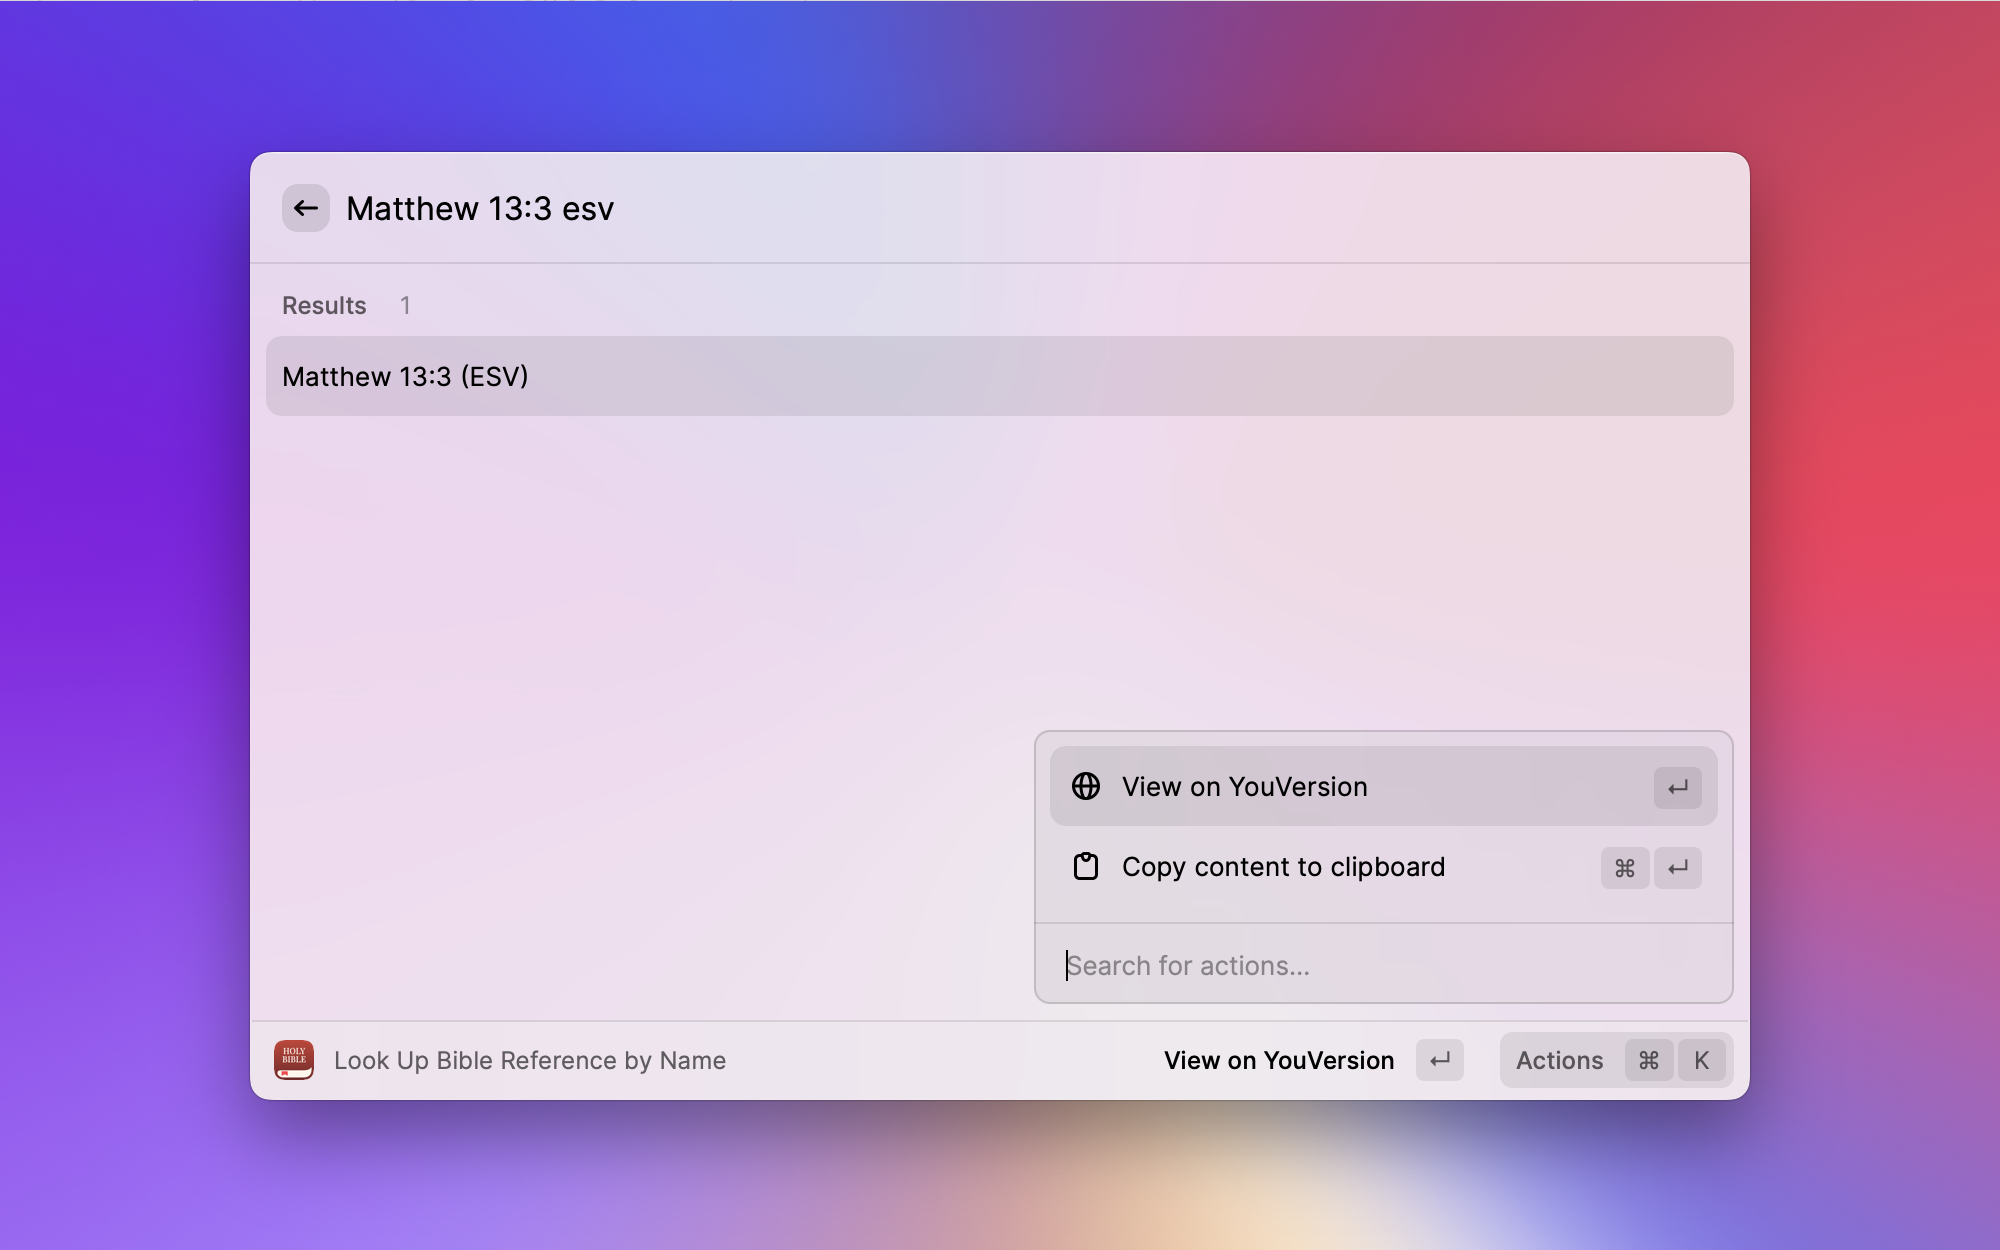
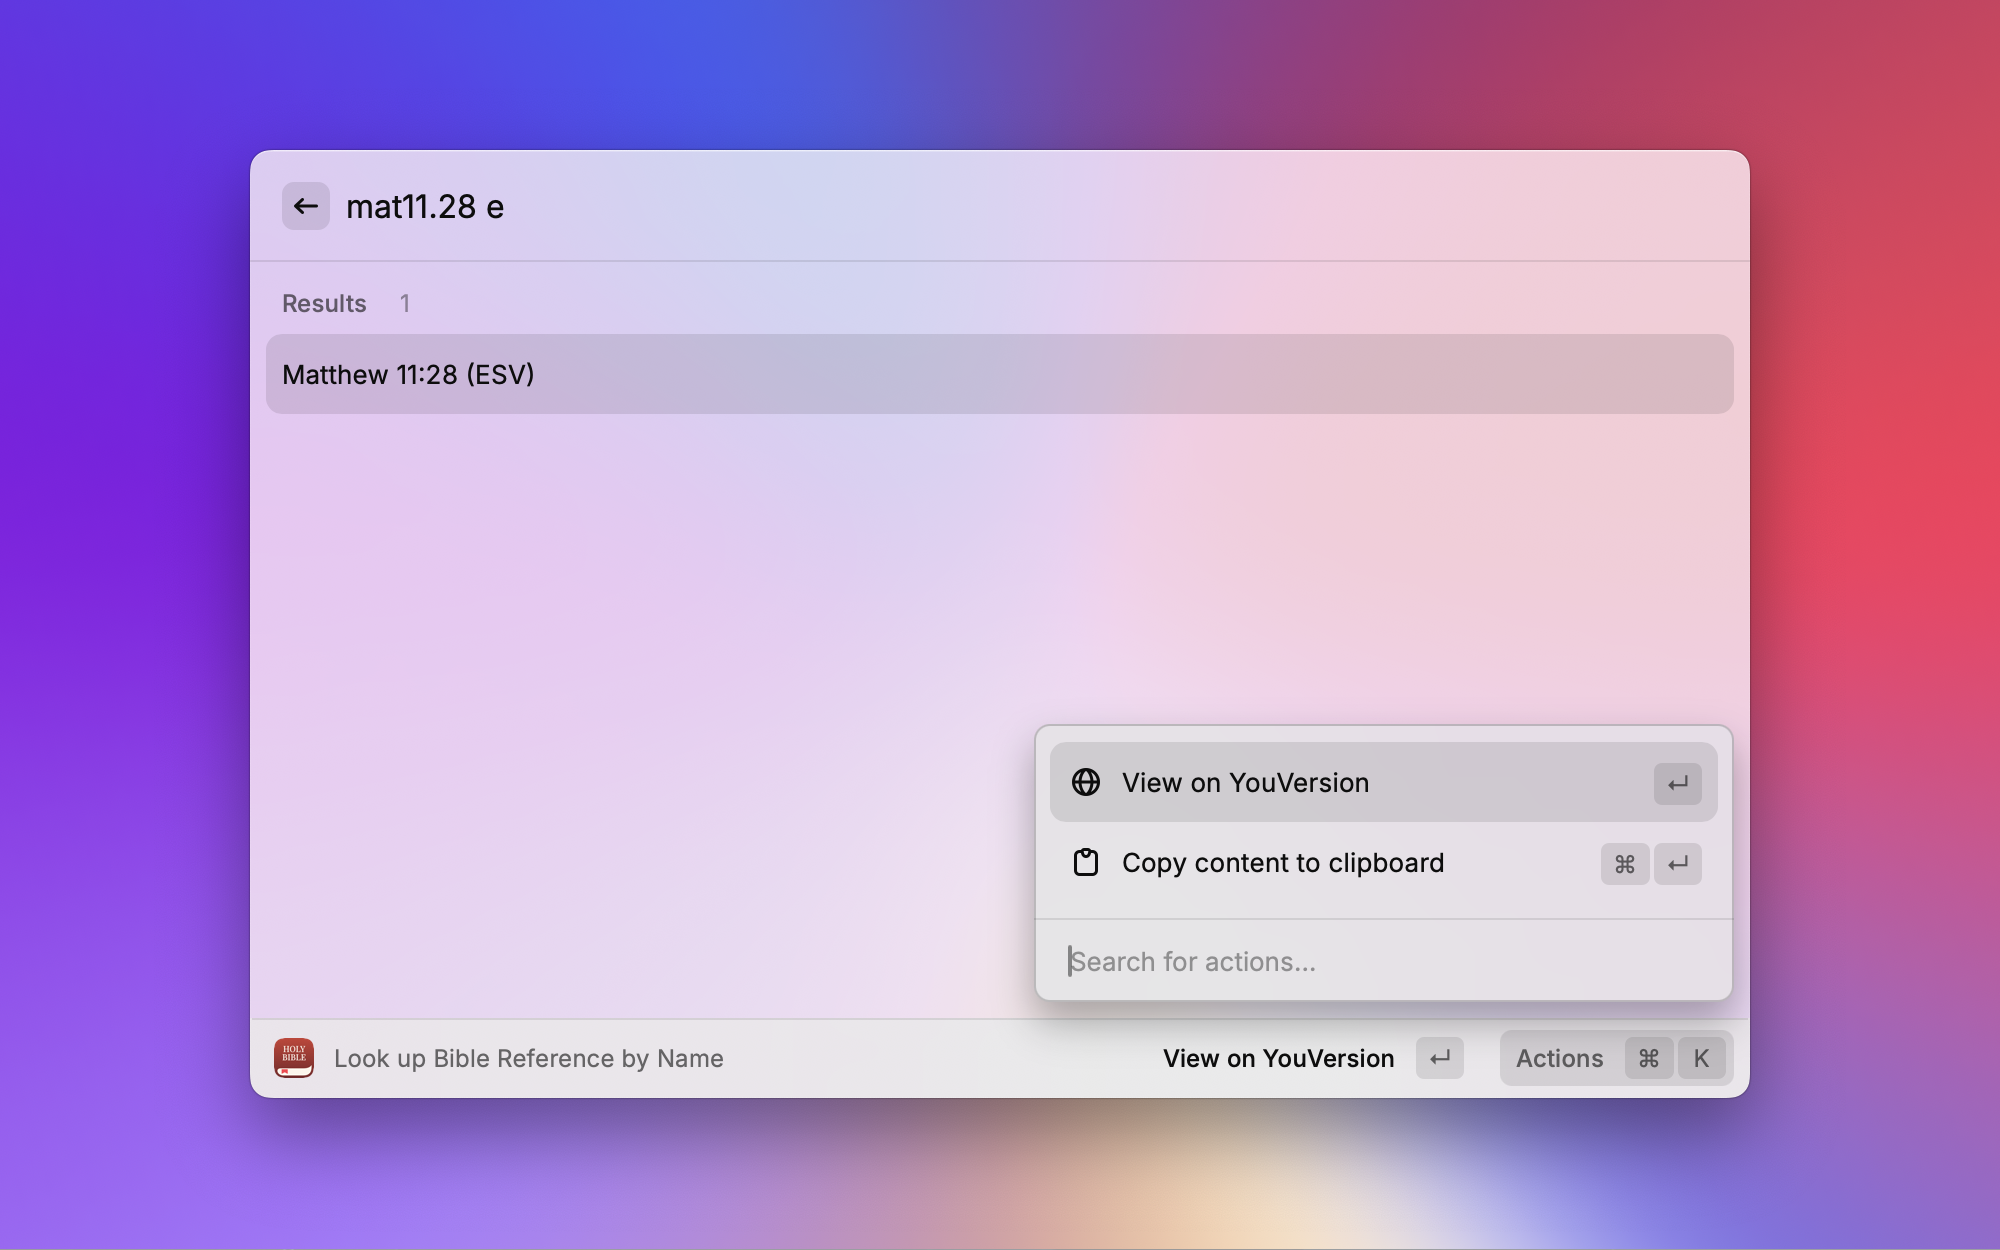
Redo screenshots
- Generate fresh screenshots with better usage examples of the various
  commands and settings
- Remove hardcoded README screenshots from media/ directory, allowing
  the new metadata/ screenshots to be the only screenshots on the
  Raycast Store listing

diff --git a/README.md b/README.md
@@ -26,11 +26,6 @@ YouVersion's Terms of Use.
 [raycast]: https://www.raycast.com/
 [extension-in-store]: https://www.raycast.com/caleb531/youversion-suggest
 
-## Screenshots
-
-![Filter Bible Reference](./media/screenshot-filter.png)
-![Search the Bible by Phrase](./media/screenshot-search.png)
-
 ## Commands
 
 ### Filter Bible Reference
